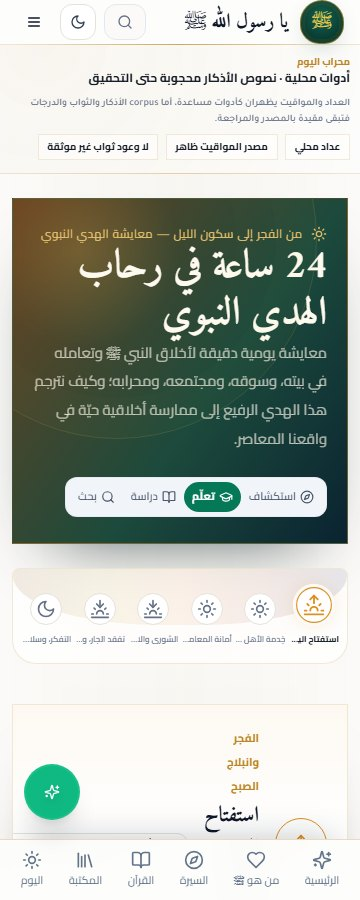
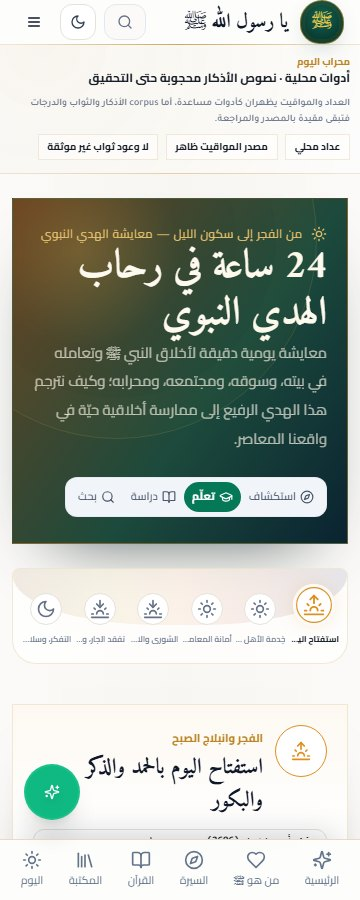
fix: keep prophetic day controls within mobile viewport

diff --git a/client/src/index.css b/client/src/index.css
@@ -1420,8 +1420,13 @@ dd { font-size: .72rem; overflow-wrap: anywhere; }
   .sundial-node__time { display: none; }
   .prophetic-journey { padding-inline: 0.75rem; }
   .alcove__stage { padding: 1.25rem; }
+  .alcove__header { align-items: flex-start; flex-wrap: wrap; gap: 0.75rem; }
+  .alcove__header > div:not(.alcove__icon) { min-width: 0; flex: 1 1 calc(100% - 4rem); }
+  .alcove__source { max-width: 100%; margin-inline-start: 0; white-space: normal; overflow-wrap: anywhere; }
   .prophetic-cartouche { padding: 1.25rem 1rem 1rem; }
   .prophetic-cartouche__arabic { font-size: 1.2rem; }
+  .alcove__nav { flex-wrap: wrap; justify-content: flex-start; gap: 0.75rem; }
+  .alcove__nav > div { max-width: 100%; flex-wrap: wrap; }
 }
 
 .institution-header {

diff --git a/client/src/pages/PropheticDayPage.tsx b/client/src/pages/PropheticDayPage.tsx
@@ -127,7 +127,7 @@ export default function PropheticDayPage() {
                 <span className="alcove__timeframe">{activeStation.timeframeAr}</span>
                 <h2 className="alcove__title">{activeStation.titleAr}</h2>
               </div>
-              <Badge variant="outline" className="ms-auto font-mono text-[10px] shrink-0">
+              <Badge variant="outline" className="alcove__source ms-auto font-mono text-[10px]">
                 {activeStation.sourceReference}
               </Badge>
             </header>
